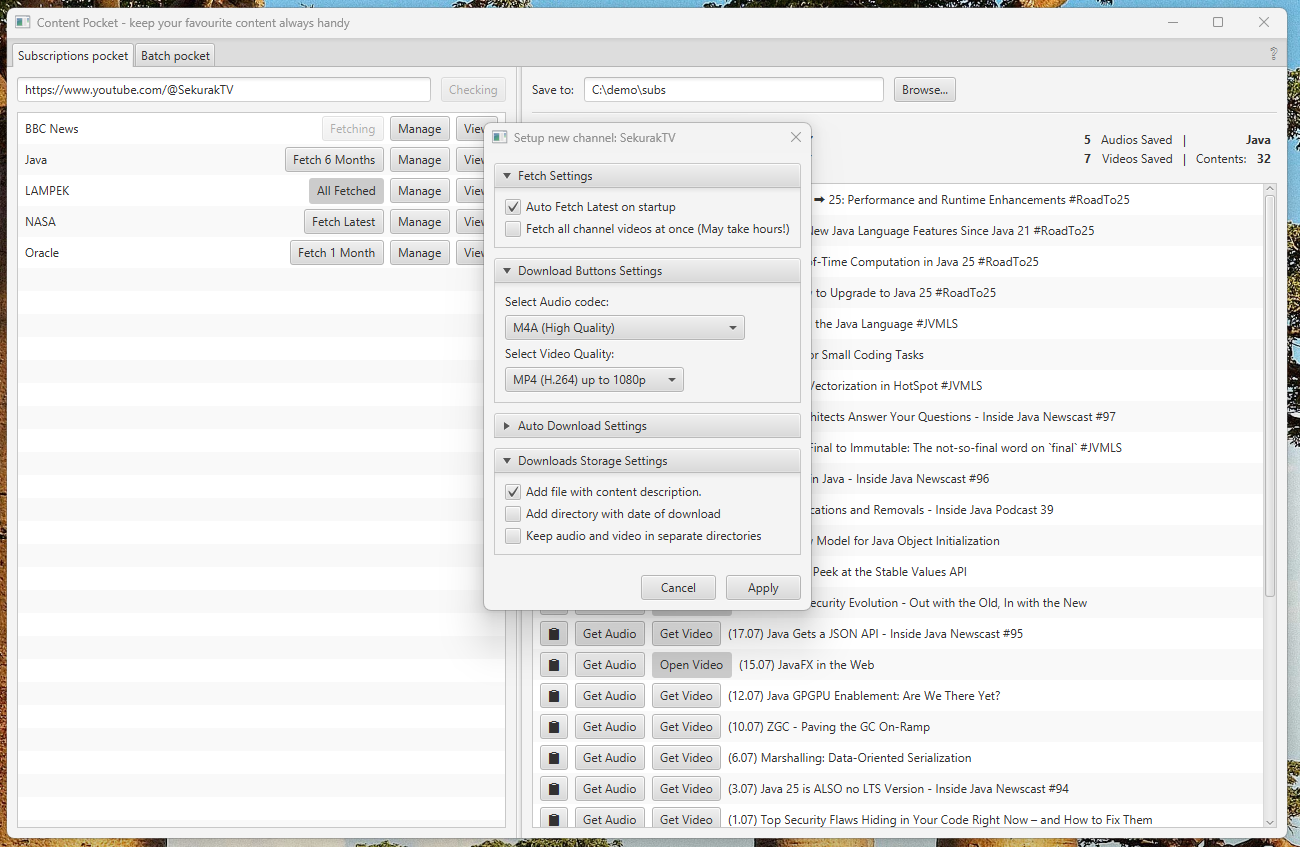
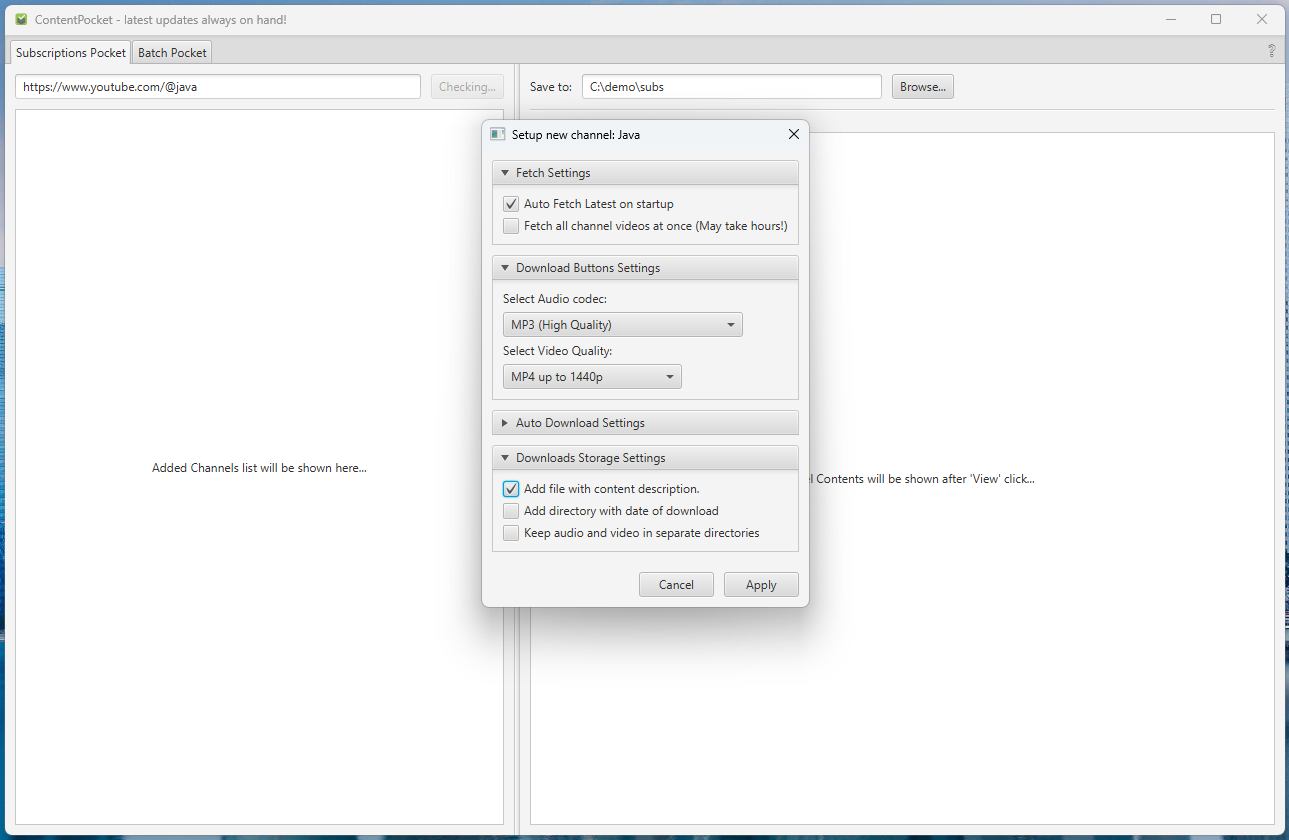
v1.2.20 updated screenshots

Changed region(s): [[0.0, 0.0, 1.0, 1.0], [0.1241, 0.5571, 0.1862, 0.5881], [0.5586, 0.3714, 0.5896, 0.4024]]

diff --git a/README.md b/README.md
@@ -17,23 +17,24 @@ It is not intended for commercial use or production deployment.
 ## 📸 UI preview (screenshots)
 
 ### Subscriptions Tab
-- **Browse & Manage Filtered Content**  
-  Add channels, fetch latest, browse content, play videos or audios. Only sources you trust, no distractors.  
-  ![Subscriptions view with expanded Java channel](docs/screenshots/demo_subs_view_contents.png)
 
-- **Per-channel Settings**  
+- **Add Channels with per-channel Settings**  
   Configure default formats, additional files, and auto-fetch latest on startup or progressively on demand.  
   ![New channel addition dialog](docs/screenshots/demo_subs_new_channel.png)
+
+- **Browse & Manage Filtered Content**  
+  Fetch latest, browse content, play videos or audios. Only sources you trust, no distractors.  
+  ![Subscriptions view with expanded Java channel](docs/screenshots/demo_subs_sample.png)
 
 ### Batch Tab
 - **Main view**  
   Paste multiple video or audio links (works with multiple providers), select required formats, and reach what you need.  
-  ![Batch tab with pasted URLs](docs/screenshots/demo_batch_main_view.png)
+  ![Batch tab with pasted URLs](docs/screenshots/demo_batch_sample.png)
 
 - **Advanced options**  
   Customize file modes, grouping rules, and multithreading levels for efficient stream handling.  
-  ![Batch tab advanced settings](docs/screenshots/demo_batch_adv_settings.png)
-- 
+  ![Batch tab advanced settings](docs/screenshots/demo_batch_adv_menu.png)
+
 ---
 
 ## 📥 Installation
